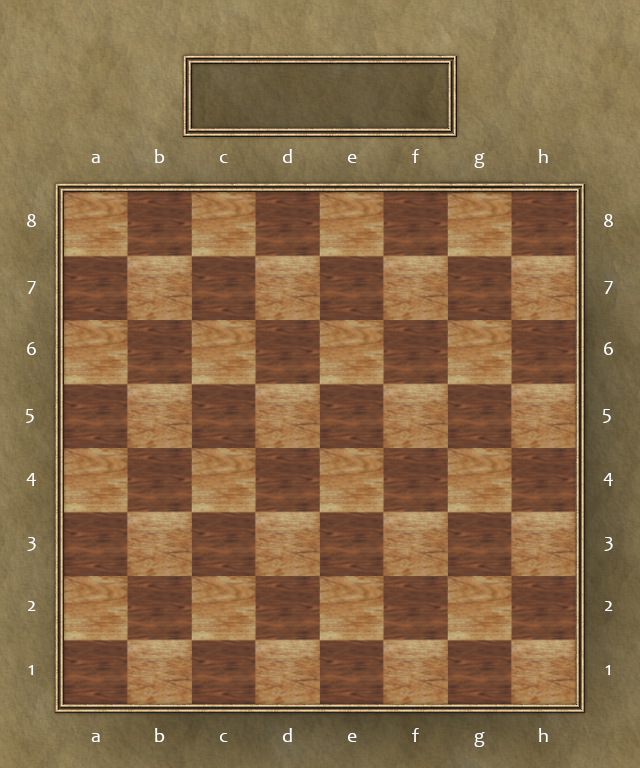
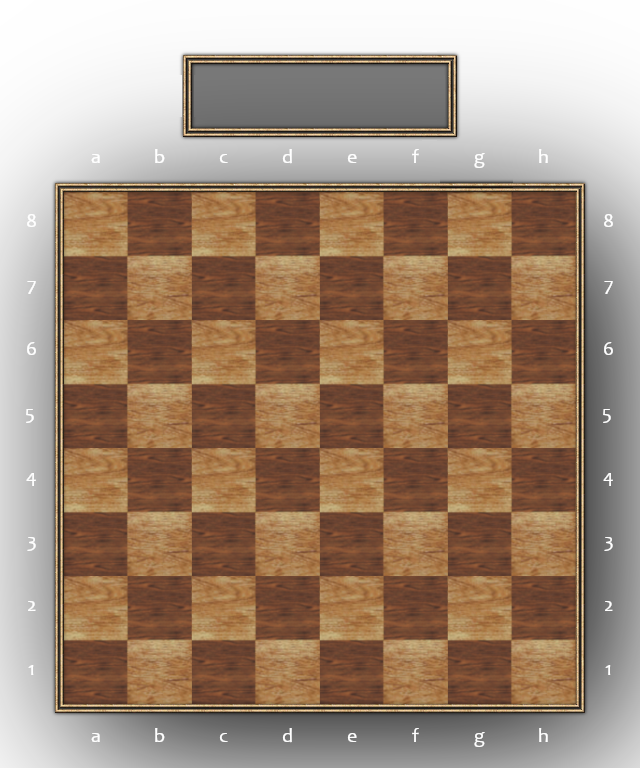
Another batch of improvements.

diff --git a/src/game.cpp b/src/game.cpp
@@ -2,15 +2,19 @@
 #include "state_stack.hpp"
 
 Game::Game()
-: mBoard{}
+: mBackground{Resources::getTexture("Background")}
+, mBoard{}
 , mSelected{nullptr}
 , mLock{false}
 , mActualPlayerColor{Color::Light}
 , mTurnText{"White Player Turn", Resources::getFont("Candara"), 30}
 , mFinished{false}
+, mShadow{sf::Sprite{Resources::getTexture("Shadow")}, sf::Sprite{Resources::getTexture("Shadow")}}
 {
     centerOrigin(mTurnText);
     mTurnText.setPosition(WindowWidth / 2.f, 96.f);
+
+    mShadow[0].move(-WindowWidth, 0.f);
 }
 
 void Game::handlePlayerAction(const sf::Vector2i& destination)
@@ -131,12 +135,20 @@ void Game::processEvent(const sf::Event& event)
     }
 }
 
-void Game::update()
+void Game::update(sf::Time dt)
 {
+    for (size_t i = 0; i <= 1; i++)
+    {
+        if (mShadow[i].getPosition().x >= WindowWidth) mShadow[i].move(-2.f * WindowWidth, 0.f);
+        mShadow[i].move(30.f * dt.asSeconds(), 0.f);
+    }
 }
 
 void Game::render(sf::RenderWindow& window) const
 {
+    window.draw(mBackground);
+    window.draw(mShadow[0]);
+    window.draw(mShadow[1]);
     window.draw(mBoard);
     window.draw(mTurnText);
 }

diff --git a/src/state_stack.cpp b/src/state_stack.cpp
@@ -6,8 +6,6 @@ StateStack::StateStack()
 , mStack{}
 , mCursor{Resources::getTexture("Cursor")}
 {
-    mWindow.setFramerateLimit(60);
-
     sf::Image icon{};
     if (!icon.loadFromFile("resources/Icon.png"))
         throw std::runtime_error("Unable to load Icon from 'resources/Icon.png' because loadFromFile method failed");
@@ -30,6 +28,9 @@ void StateStack::popImpl()
 
 void StateStack::runImpl()
 {
+    sf::Clock clock{};
+    sf::Time dt{};
+
     while (!mStack.empty() && mWindow.isOpen())
     {
         auto actual = mStack.top();
@@ -47,8 +48,14 @@ void StateStack::runImpl()
             while (mWindow.pollEvent(event))
                 mStates[actual]->processEvent(event);
 
-            mStates[actual]->update();
-            updateCursor();
+            dt += clock.restart();
+            while (dt >= TimePerFrame)
+            {
+                mStates[actual]->update(TimePerFrame);
+                updateCursor();
+
+                dt -= TimePerFrame;
+            }
 
             mWindow.clear();
 

diff --git a/src/resources.cpp b/src/resources.cpp
@@ -12,6 +12,7 @@ Resources::Resources()
     loadSoundBuffer("Move", "resources/Move.wav");
     loadSoundBuffer("Win", "resources/Win.wav");
 
+    loadTexture("Background", "resources/Background.png");
     loadTexture("Board", "resources/Board.png");
     loadTexture("LightKing", "resources/LightKing.png");
     loadTexture("LightKingSelected", "resources/LightKingSelected.png");
@@ -22,6 +23,7 @@ Resources::Resources()
     loadTexture("DarkPawn", "resources/DarkPawn.png");
     loadTexture("DarkPawnSelected", "resources/DarkPawnSelected.png");
     loadTexture("Cursor", "resources/Cursor.png");
+    loadTexture("Shadow", "resources/Shadow.png");
 }
 
 Resources& Resources::getInstance()

diff --git a/include/game.hpp b/include/game.hpp
@@ -14,13 +14,15 @@ public:
     void nextTurn();
 
     virtual void processEvent(const sf::Event& event) override;
-    virtual void update() override;
+    virtual void update(sf::Time dt) override;
     virtual void render(sf::RenderWindow& window) const override;
 private:
+    sf::Sprite mBackground;
     Board mBoard;
     Pawn* mSelected;
     bool mLock;
     Color mActualPlayerColor;
     sf::Text mTurnText;
     bool mFinished;
+    sf::Sprite mShadow[2];
 };

diff --git a/src/board.cpp b/src/board.cpp
@@ -1,7 +1,7 @@
 #include "board.hpp"
 
 Board::Board()
-: mBackground{ Resources::getTexture("Board") }
+: mSprite{ Resources::getTexture("Board") }
 , mPawns{}
 {
     mPawns.reserve(24);
@@ -35,7 +35,7 @@ Board::Board()
 
 void Board::draw(sf::RenderTarget& target, sf::RenderStates states) const
 {
-    target.draw(mBackground, states);
+    target.draw(mSprite, states);
     for (const auto& pawn : mPawns) target.draw(*pawn, states);
 }
 

diff --git a/include/title.hpp b/include/title.hpp
@@ -8,6 +8,6 @@ public:
     Title();
 
     virtual void processEvent(const sf::Event& event) override;
-    virtual void update() override;
+    virtual void update(sf::Time dt) override;
     virtual void render(sf::RenderWindow& window) const override;
 };

diff --git a/include/menu.hpp b/include/menu.hpp
@@ -8,6 +8,6 @@ public:
     Menu();
 
     virtual void processEvent(const sf::Event& event) override;
-    virtual void update() override;
+    virtual void update(sf::Time dt) override;
     virtual void render(sf::RenderWindow& window) const override;
 };

diff --git a/include/state.hpp b/include/state.hpp
@@ -18,6 +18,6 @@ public:
 
     virtual ~State() {};
     virtual void processEvent(const sf::Event& event) = 0;
-    virtual void update() = 0;
+    virtual void update(sf::Time dt) = 0;
     virtual void render(sf::RenderWindow& window) const = 0;
 };

diff --git a/include/board.hpp b/include/board.hpp
@@ -22,6 +22,6 @@ private:
     virtual void draw(sf::RenderTarget& target, sf::RenderStates states) const override;
 
 private:
-    sf::Sprite mBackground;
+    sf::Sprite mSprite;
     std::vector<std::unique_ptr<Pawn>> mPawns;
 };

diff --git a/include/common.hpp b/include/common.hpp
@@ -10,6 +10,7 @@ const int WindowHeight = 768;
 const int TileSize = 64;
 const int OffsetX = 1;
 const int OffsetY = 3;
+const sf::Time TimePerFrame = sf::seconds(1.f / 30.f);
 
 enum class Color
 {

diff --git a/src/title.cpp b/src/title.cpp
@@ -24,7 +24,7 @@ void Title::processEvent(const sf::Event& event)
     }
 }
 
-void Title::update()
+void Title::update(sf::Time dt)
 {
 }
 

diff --git a/src/menu.cpp b/src/menu.cpp
@@ -24,7 +24,7 @@ void Menu::processEvent(const sf::Event& event)
     }
 }
 
-void Menu::update()
+void Menu::update(sf::Time dt)
 {
 }
 
